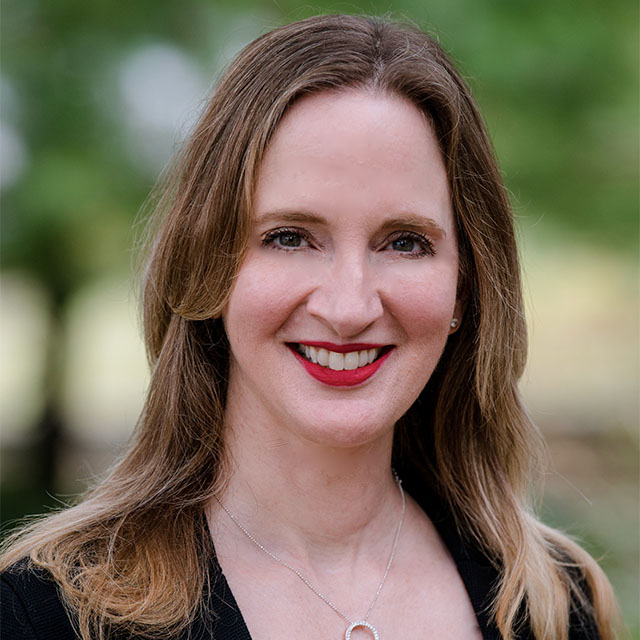
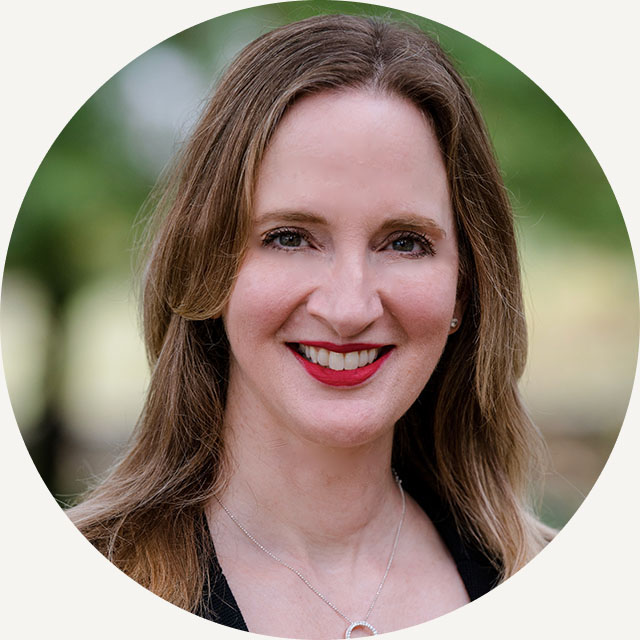
update HP image (finish)

diff --git a/_includes/components/header.html b/_includes/components/header.html
@@ -2,9 +2,9 @@
 			
 	{% if page.url == '/' %}
 	<img class="profile__img" data-interchange="
-	[/uploads/allison-018-sm.jpg, small], 
-	[/uploads/allison-018-sm.jpg, retina],
-	[/uploads/allison-018-sm.jpg, large], 
+	[/uploads/allison-profile-2021.jpg, small], 
+	[/uploads/allison-profile-2021.jpg, retina],
+	[/uploads/allison-profile-2021.jpg, large], 
 	" />
 	{% endif %}
 

diff --git a/index.html b/index.html
@@ -6,8 +6,6 @@ description: >-
   expert testimony and up-to-date, factual information to attorneys, healthcare
   professionals, and the lay public.
 layout: default
-image_path: /uploads/allison-profile-2021.jpg
-image@2x_path: /uploads/allison-profile-2021.jpg
 ---
 
 <section class="services-grid">
